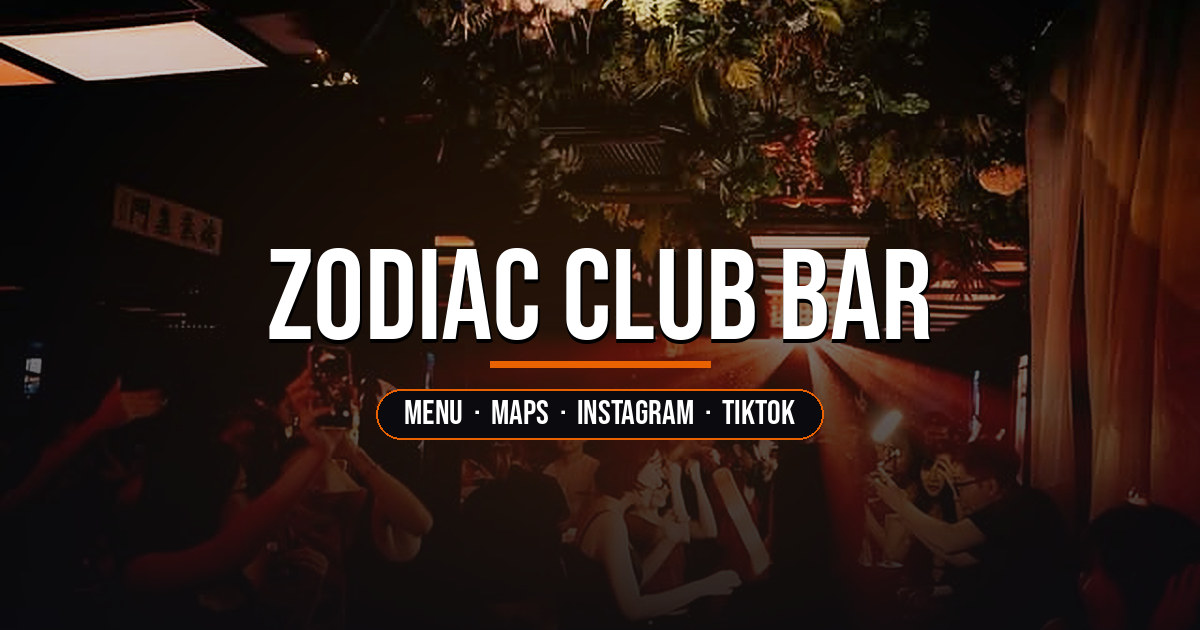
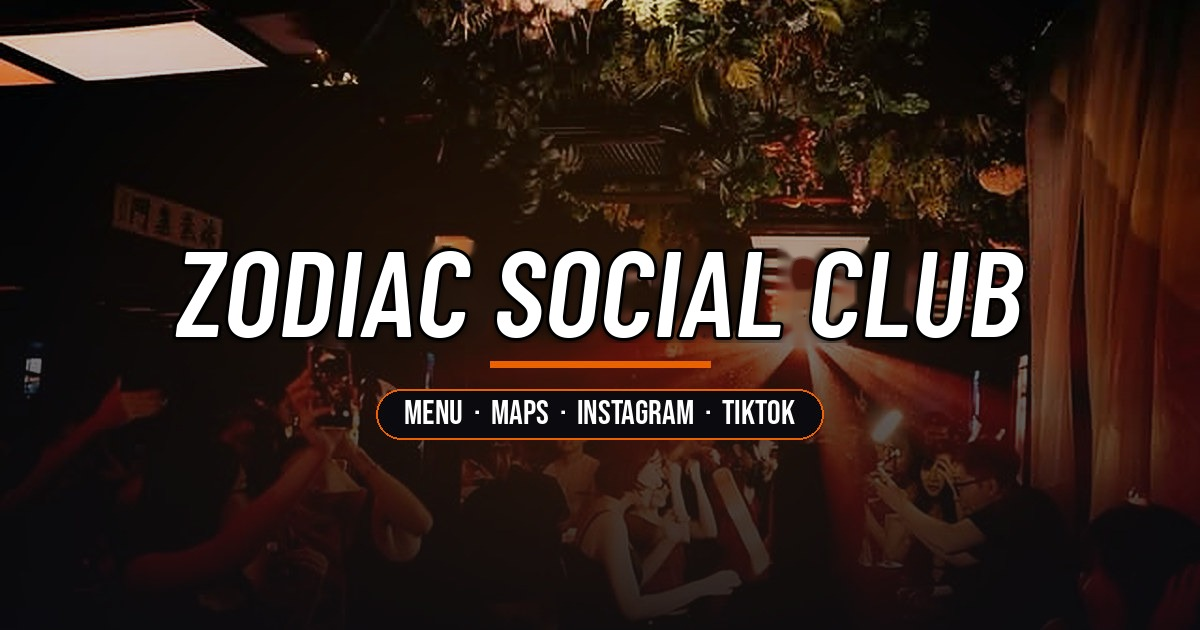
Rename brand to ZODIAC SOCIAL CLUB
Update the public site name, Open Graph card, and cache-busters. The GitHub Pages URL is unchanged.

diff --git a/index.html b/index.html
@@ -3,21 +3,22 @@
 <head>
   <meta charset="UTF-8">
   <meta name="viewport" content="width=device-width, initial-scale=1, viewport-fit=cover">
-  <title>ZODIAC CLUB BAR — Menu & Official Links</title>
+  <title>ZODIAC SOCIAL CLUB — Menu & Official Links</title>
   <meta name="description" content="View our menu, event schedule, Google Maps, Facebook, Instagram & TikTok.">
   <meta property="og:type" content="website">
   <meta property="og:url" content="https://zodiacclubbar.github.io/">
-  <meta property="og:title" content="ZODIAC CLUB BAR — Menu & Official Links">
+  <meta property="og:title" content="ZODIAC SOCIAL CLUB — Menu & Official Links">
+  <meta property="og:site_name" content="ZODIAC SOCIAL CLUB">
   <meta property="og:description" content="View our menu, event schedule, Google Maps, Facebook, Instagram & TikTok.">
-  <meta property="og:image" content="https://zodiacclubbar.github.io/og-card.jpg">
-  <meta property="og:image:secure_url" content="https://zodiacclubbar.github.io/og-card.jpg">
+  <meta property="og:image" content="https://zodiacclubbar.github.io/og-card.jpg?v=20261126social">
+  <meta property="og:image:secure_url" content="https://zodiacclubbar.github.io/og-card.jpg?v=20261126social">
   <meta property="og:image:type" content="image/jpeg">
   <meta property="og:image:width" content="1200">
   <meta property="og:image:height" content="630">
   <meta name="twitter:card" content="summary_large_image">
-  <meta name="twitter:title" content="ZODIAC CLUB BAR — Menu & Official Links">
+  <meta name="twitter:title" content="ZODIAC SOCIAL CLUB — Menu & Official Links">
   <meta name="twitter:description" content="View our menu, event schedule, Google Maps, Facebook, Instagram & TikTok.">
-  <meta name="twitter:image" content="https://zodiacclubbar.github.io/og-card.jpg">
+  <meta name="twitter:image" content="https://zodiacclubbar.github.io/og-card.jpg?v=20261126social">
   <meta name="theme-color" content="#0B0B0F">
   <meta name="format-detection" content="telephone=no">
   <meta name="apple-mobile-web-app-capable" content="yes">
@@ -112,7 +113,7 @@
   </div>
 
   <div class="toast" id="toast" role="status" aria-live="polite"></div>
-  <script src="data.js?v=20261121aespa"></script>
+  <script src="data.js?v=20261126social"></script>
   <script src="js/app.js?v=20261121pinch"></script>
 </body>
 </html>

diff --git a/data.js b/data.js
@@ -1,6 +1,6 @@
 window.ZODIAC = {
   venue: "bar",
-  name: "ZODIAC CLUB BAR",
+  name: "ZODIAC SOCIAL CLUB",
   tagline: "Menu & Official Links",
   pageUrl: "https://zodiacclubbar.github.io/",
   hotline: "+84-327-000-272",

diff --git a/README.md b/README.md
@@ -1,3 +1,3 @@
-# ZODIAC CLUB BAR — Official Links & Menu
+# ZODIAC SOCIAL CLUB — Official Links & Menu
 
 Live site: https://zodiacclubbar.github.io/
